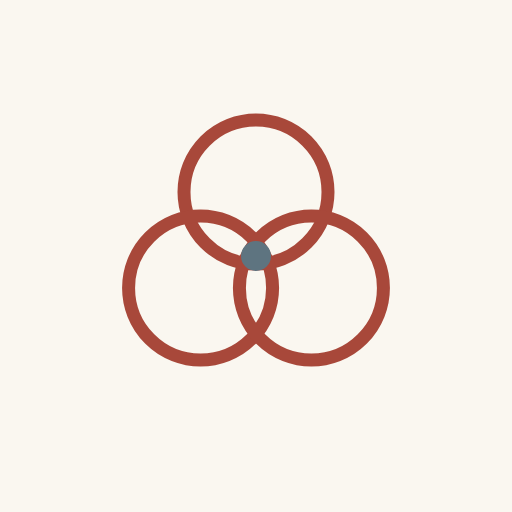
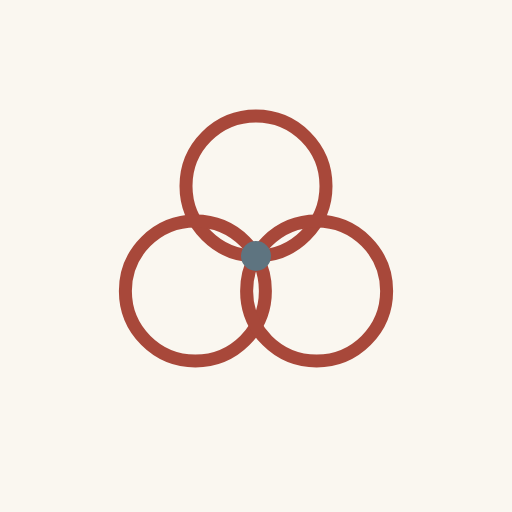
V3.2: bo tron het goc nhon, font so bo tron
Anh Duyet: icon con goc nhon va khoi tam giac, nhin kho chiu — mai tron tat ca.
Ra soat thi dung: co 7 cho.

1) HE LICH — ba vong CAT nhau, phan giao la mot KHOI TAM GIAC CONG co mui nhon
   o ca 3 dau. Cho ba vong CHAM nhau (tam cach tam = 2r*sin60): het mui nhon,
   het khoi tam giac dac. Icon app cung sua y het.
2) THOI TIET — 8 tia thang -> 8 CHAM tron. Het cam giac gai.
3) SU KIEN — day la cho anh keu lai lan 2, va anh dung: ban truoc cung bo cung
   nhung cung QUA CAN nen van ra mui. Nay dau canh la NUA DUONG TRON that.
   Thu 5 do tu (chom 1,3 / 1,5 / 1,9 / 2,3 / 2,7): 1,3 van nhon; 2,7 thanh bong
   hoa, mat nghia "sao". Chon chom 2,3 — tron han ma van doc ra sao.
4) GHIM VI TRI — day nhon hoat -> bo tu.
5) TUYET — hai dau sao gai -> ba cham tron roi.
6) DONG — tia gay goc -> tia bo goc tron. Thu ban net cong hoan toan thi doc ra
   con giun, mat nghia; nen bo goc chu khong xoa hinh.
7) LICH — bo goc ngoai manh hon (rx 3,2 -> 4,6). It may: tia mat troi nho cung
   thanh cham cho dong bo.

Bo tron con CAI THIEN luon do can gia dinh: lech muc 2,16x -> 2,02x.

FONT SO — anh muon so nhin de thuong de gan hon.
KHONG tai font ngoai: se pha cam ket chay offline (§6), them phu thuoc mang va
nhap nhay khi mo. Dung ui-rounded — ho font CHUAN CUA CSS, tren iOS/macOS no tro
thanh SF Pro Rounded (bo tron, than thien) ma khong ton mot byte tai ve. Android
khong co font bo tron he thong nen roi ve system-ui, van doc tot.
[…]

diff --git a/index.html b/index.html
@@ -710,6 +710,15 @@
   .tmr .tm-l{font-size:14.5px;font-weight:700;color:var(--ink);flex-shrink:0}
   .tmr .tm-r{font-size:13px;color:#6E6A5E;text-align:right}
   footer{text-align:center;font-size:10px;color:#999;margin-top:30px;letter-spacing:.04em;line-height:1.8;opacity:1}
+  /* ═══ FONT SỐ — bo tròn, thân thiện ═══ */
+  :root{--fnum:ui-rounded,"SF Pro Rounded",system-ui,-apple-system,Inter,sans-serif}
+  .hero .dm,.hero .mo,.ccstrip .cv,.mgrid .d .g,.mgrid .d .l,.wk .c .g,.wk .c .l,
+  .big,.wxbig,.hub.wx .tmp,.hub.mn .pc,.hub.bd .era,.hub.tb .dnum,
+  .pcard .pt,.pcard .phl,.hcell .ht2,.hcell .hh,.hcell .hp,.ymon .yc i,.evrow .ed .d1,
+  .wxtmp,.cd-d,.rmd{font-family:var(--fnum)}
+  /* SF Pro Rounded o net 800 hoi phinh — ha mot bac cho so lon, van dam ma mem hon */
+  .hero .dm{font-weight:750}
+  .mgrid .d .g{font-weight:800}
 </style>
 </head>
 <body>
@@ -1938,7 +1947,7 @@ function askLoc(){
 // Thay cho ky tu vi iOS ve ☸ va ☀ thanh emoji MAU trong khi ◈ ▦ ✦ la ky tu den:
 // nam icon ba giong khac nhau. Ky tu con phu thuoc font tung may, khong chinh
 // duoc net, khong doi mau theo skin.
-const ICON={today:'<circle cx="12" cy="12" r="8.2"/><circle cx="12" cy="12" r="2.7" fill="currentColor" stroke="none"/>',cal:'<rect x="3.6" y="4.6" width="16.8" height="15.4" rx="3.2"/><path d="M3.6 9.4h16.8M12 9.4v10.6M3.6 14.7h16.8"/>',wheel:'<circle cx="12" cy="8.1" r="4.7"/><circle cx="7.5" cy="15.4" r="4.7"/><circle cx="16.5" cy="15.4" r="4.7"/>',sun:'<circle cx="12" cy="12" r="4.6"/><path d="M12 3.4v2.1M12 18.5v2.1M3.4 12h2.1M18.5 12h2.1M6 6l1.6 1.6M16.4 16.4l1.6 1.6M18 6l-1.6 1.6M7.6 16.4L6 18"/>',star:'<path d="M12 3c.89 6.17 1.94 7.22 8.11 8.11-6.17.89-7.22 1.94-8.11 8.11-.89-6.17-1.94-7.22-8.11-8.11C10.06 10.22 11.11 9.17 12 3z"/>',pin:'<path d="M12 20.8s6.2-5.6 6.2-10.1a6.2 6.2 0 1 0-12.4 0c0 4.5 6.2 10.1 6.2 10.1z"/><circle cx="12" cy="10.5" r="2.3"/>',cloud:'<path d="M7.6 18h8.9a3.4 3.4 0 0 0 .2-6.8 5 5 0 0 0-9.5-1.1A3.5 3.5 0 0 0 7.6 18z"/>',partly:'<circle cx="7.8" cy="7.2" r="3.1"/><path d="M7.8 1.6v1.7M2.2 7.2h1.7M3.7 3.1l1.2 1.2"/><path d="M10.5 19.6h7.2a3.1 3.1 0 0 0 .2-6.2 4.5 4.5 0 0 0-8.6-1 3.2 3.2 0 0 0 1.2 7.2z"/>',fog:'<path d="M7.6 14.6h8.9a3.4 3.4 0 0 0 .2-6.8 5 5 0 0 0-9.5-1.1 3.5 3.5 0 0 0 .4 7.9z"/><path d="M4.6 18h14.8M7 21.2h10"/>',drizzle:'<path d="M7.6 15.4h8.9a3.4 3.4 0 0 0 .2-6.8 5 5 0 0 0-9.5-1.1 3.5 3.5 0 0 0 .4 7.9z"/><path d="M9.6 18.6l-.8 2.4M15 18.6l-.8 2.4"/>',rain:'<path d="M7.6 15.4h8.9a3.4 3.4 0 0 0 .2-6.8 5 5 0 0 0-9.5-1.1 3.5 3.5 0 0 0 .4 7.9z"/><path d="M8.6 18.2l-1 3M12.5 18.2l-1 3M16.4 18.2l-1 3"/>',snow:'<path d="M7.6 15.4h8.9a3.4 3.4 0 0 0 .2-6.8 5 5 0 0 0-9.5-1.1 3.5 3.5 0 0 0 .4 7.9z"/><path d="M9.4 18.4v3M8.1 19.2l2.6 1.5M10.7 19.2l-2.6 1.5M15.4 18.4v3M14.1 19.2l2.6 1.5M16.7 19.2l-2.6 1.5"/>',storm:'<path d="M7.6 15.4h8.9a3.4 3.4 0 0 0 .2-6.8 5 5 0 0 0-9.5-1.1 3.5 3.5 0 0 0 .4 7.9z"/><path d="M13.2 17.6l-3.4 2.9h2.9l-1.5 2.4"/>'};
+const ICON={today:'<circle cx="12" cy="12" r="8.2"/><circle cx="12" cy="12" r="2.7" fill="currentColor" stroke="none"/>',cal:'<rect x="3.6" y="4.6" width="16.8" height="15.4" rx="4.6"/><path d="M3.6 9.4h16.8M12 9.6v10.2M3.6 14.7h16.8"/>',wheel:'<circle cx="12" cy="8.3" r="4.5"/><circle cx="7.5" cy="15.8" r="4.5"/><circle cx="16.5" cy="15.8" r="4.5"/>',sun:'<circle cx="12" cy="12" r="4.9"/><g fill="currentColor" stroke="none"><circle cx="12" cy="3.6" r="1.15"/><circle cx="12" cy="20.4" r="1.15"/><circle cx="3.6" cy="12" r="1.15"/><circle cx="20.4" cy="12" r="1.15"/><circle cx="6.06" cy="6.06" r="1.15"/><circle cx="17.94" cy="17.94" r="1.15"/><circle cx="17.94" cy="6.06" r="1.15"/><circle cx="6.06" cy="17.94" r="1.15"/></g>',star:'<path d="M9.70 6.50a2.3 2.3 0 0 1 4.6 0Q14.90 9.10 17.50 9.70a2.3 2.3 0 0 1 0 4.6Q14.90 14.90 14.30 17.50a2.3 2.3 0 0 1 -4.6 0Q9.10 14.90 6.50 14.30a2.3 2.3 0 0 1 0 -4.6Q9.10 9.10 9.70 6.50z"/>',pin:'<path d="M12 20.4c2.6-2.6 6-6.2 6-9.7a6 6 0 1 0-12 0c0 3.5 3.4 7.1 6 9.7z"/><circle cx="12" cy="10.5" r="2.3"/>',cloud:'<path d="M7.6 18h8.9a3.4 3.4 0 0 0 .2-6.8 5 5 0 0 0-9.5-1.1A3.5 3.5 0 0 0 7.6 18z"/>',partly:'<circle cx="7.8" cy="7.2" r="3.1"/><g fill="currentColor" stroke="none"><circle cx="7.8" cy="2.3" r="1"/><circle cx="2.9" cy="7.2" r="1"/><circle cx="4.3" cy="3.7" r="1"/></g><path d="M10.5 19.6h7.2a3.1 3.1 0 0 0 .2-6.2 4.5 4.5 0 0 0-8.6-1 3.2 3.2 0 0 0 1.2 7.2z"/>',fog:'<path d="M7.6 14.6h8.9a3.4 3.4 0 0 0 .2-6.8 5 5 0 0 0-9.5-1.1 3.5 3.5 0 0 0 .4 7.9z"/><path d="M4.6 18h14.8M7 21.2h10"/>',drizzle:'<path d="M7.6 15.4h8.9a3.4 3.4 0 0 0 .2-6.8 5 5 0 0 0-9.5-1.1 3.5 3.5 0 0 0 .4 7.9z"/><path d="M9.6 18.6l-.8 2.4M15 18.6l-.8 2.4"/>',rain:'<path d="M7.6 15.4h8.9a3.4 3.4 0 0 0 .2-6.8 5 5 0 0 0-9.5-1.1 3.5 3.5 0 0 0 .4 7.9z"/><path d="M8.6 18.2l-1 3M12.5 18.2l-1 3M16.4 18.2l-1 3"/>',snow:'<path d="M7.6 15.4h8.9a3.4 3.4 0 0 0 .2-6.8 5 5 0 0 0-9.5-1.1 3.5 3.5 0 0 0 .4 7.9z"/><g fill="currentColor" stroke="none"><circle cx="9.2" cy="19.2" r="1.15"/><circle cx="14.8" cy="19.2" r="1.15"/><circle cx="12" cy="21.9" r="1.15"/></g>',storm:'<path d="M7.6 15.4h8.9a3.4 3.4 0 0 0 .2-6.8 5 5 0 0 0-9.5-1.1 3.5 3.5 0 0 0 .4 7.9z"/><path d="M13 17.4c-1.6 1.2-2.4 2-2.4 2.5s.6.7 1.9.7c-1.3 1.1-2.2 1.9-2.7 2.4"/>'};
 function svgIcon(k,sz,sw){
   return `<svg viewBox="0 0 24 24" width="${sz||26}" height="${sz||26}" fill="none" stroke="currentColor"
     stroke-width="${sw||1.7}" stroke-linecap="round" stroke-linejoin="round" aria-hidden="true">${ICON[k]||''}</svg>`;

diff --git a/sw.js b/sw.js
@@ -1,7 +1,7 @@
 // Lich Da Chieu - service worker: app shell offline, engine chay hoan toan tren may
 // Ten cache PHAI doi moi lan deploy, khong doi thi may da cai van giu ban cu.
 // patch.py tu tang so cuoi moi khi co gi duoc va - dung sua tay dong duoi.
-const C='ldc-v43';
+const C='ldc-v44';
 const ASSETS=['./','./index.html','./manifest.webmanifest','./icon-192.png','./icon-512.png','./apple-touch-icon.png'];
 self.addEventListener('install',e=>{
   e.waitUntil(caches.open(C).then(c=>c.addAll(ASSETS.map(u=>new Request(u,{cache:'reload'})))).then(()=>self.skipWaiting()));
